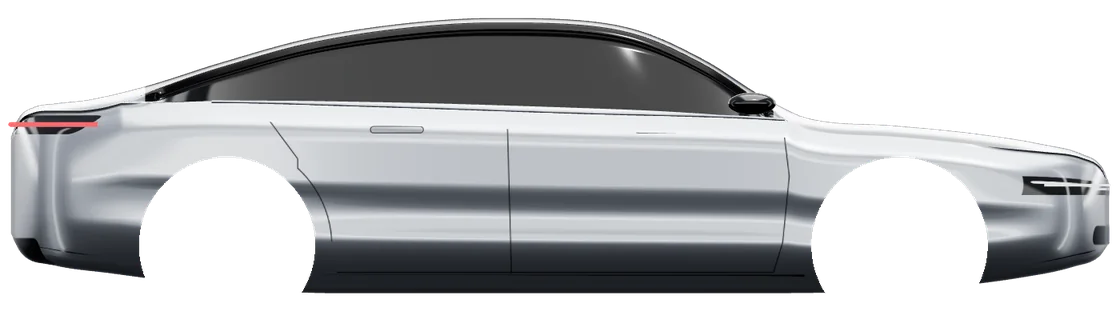
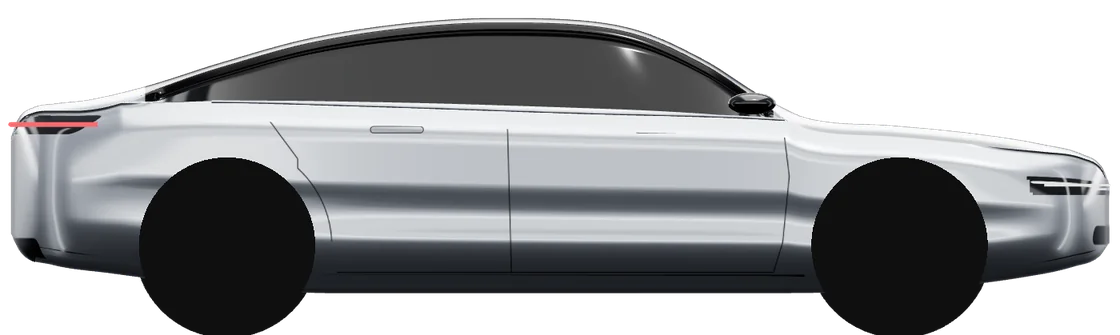
Car pictures: clean hood, closed wheel wells, matching wheel tone [no release]
Claude-Session: https://claude.ai/code/session_01CHoTaiYXgqNQoAxruhGoBM

diff --git a/tools/car3d/premium.js b/tools/car3d/premium.js
@@ -134,7 +134,7 @@ function bodyGeometry() {
 }
 
 /** Sub-mesh of the body (rows k0..k1 of each half, stations in [x0, x1]) pushed out along the normals, with chosen uv. */
-function patch(g, k0, k1, x0, x1, d, uvName) {
+function patch(g, k0, k1, x0, x1, d, uvName, nx = 0) {
   const { NX, RING } = g.userData;
   const P = g.attributes.position, N = g.attributes.normal, U = g.attributes[uvName];
   const pos = [], uv = [], idx = [];
@@ -155,6 +155,7 @@ function patch(g, k0, k1, x0, x1, d, uvName) {
   }
   for (let i = 0; i < NX; i++) for (let k = 0; k < RING - 1; k++) {
     const a = i * RING + k, b = a + 1, c = a + RING, dd = c + 1;
+    if (nx && ![a, b, c, dd].every(v => N.getX(v) * Math.sign(nx) > Math.abs(nx))) continue; // only faces looking forward / back
     if ([a, b, c, dd].every(v => map.has(v))) idx.push(map.get(a), map.get(c), map.get(b), map.get(b), map.get(c), map.get(dd));
   }
   const o = new THREE.BufferGeometry();
@@ -348,7 +349,7 @@ function carGroup(paint, opts) {
   const body = bodyGeometry();
   const paintMat = new THREE.MeshPhysicalMaterial({
     color: new THREE.Color(paint.color), metalness: paint.metal, roughness: paint.rough, clearcoat: 1.0, clearcoatRoughness: 0.03,
-    alphaMap: mk('paint', paintMask), alphaTest: 0.5, envMapIntensity: paint.env ?? 1.0, side: THREE.DoubleSide,
+    alphaMap: mk('paint', paintMask), alphaTest: 0.5, envMapIntensity: paint.env ?? 1.0, side: THREE.FrontSide,
   });
   const glassMat = new THREE.MeshPhysicalMaterial({ color: 0x040507, roughness: 0.05, metalness: 0.0, clearcoat: 1, clearcoatRoughness: 0.02, envMapIntensity: 0.25 });
   grp.add(new THREE.Mesh(body, [paintMat, glassMat]));
@@ -358,8 +359,8 @@ function carGroup(paint, opts) {
   layer(sideRows(0.0020), new THREE.MeshPhysicalMaterial({ color: 0x0b0c0e, roughness: 0.25, metalness: 0.2, clearcoat: 1 }), mk('skirt', skirtMask), 2);
   layer(sideRows(0.0026), new THREE.MeshPhysicalMaterial({ color: 0xd8dde3, roughness: 0.18, metalness: 1 }), mk('handle', handleMask), 3);
   // front and rear faces (projection from the front)
-  const nose = (d) => patch(body, 0, NF + NS, L - 0.42, L, d, 'uv1');
-  const tail = (d) => patch(body, 0, NF + NS, 0, 0.40, d, 'uv1');
+  const nose = (d) => patch(body, 0, NF + NS, L - 0.42, L, d, 'uv1', 0.30);
+  const tail = (d) => patch(body, 0, NF + NS, 0, 0.40, d, 'uv1', -0.30);
   layer(nose(0.002), new THREE.MeshPhysicalMaterial({ color: 0x06070a, roughness: 0.06, metalness: 0.4, clearcoat: 1 }), mk('fp', frontPanel), 4);
   layer(nose(0.0032), new THREE.MeshBasicMaterial({ color: new THREE.Color(opts.drl ?? 0.95, opts.drl ?? 0.97, opts.drl ?? 1.0) }), mk('fl', frontLeds), 5);
   layer(tail(0.002), new THREE.MeshPhysicalMaterial({ color: 0x0a0607, roughness: 0.06, metalness: 0.4, clearcoat: 1 }), mk('rp', rearPanel), 4);
@@ -372,6 +373,9 @@ function carGroup(paint, opts) {
     const well = new THREE.Mesh(new THREE.CylinderGeometry(ARCH_R + 0.012, ARCH_R + 0.012, 1.92, 64, 1, true, 0, Math.PI * 2),
       new THREE.MeshStandardMaterial({ color: 0x040405, roughness: 0.95, side: THREE.BackSide }));
     well.rotation.x = Math.PI / 2; well.position.set(cx, ARCH_Y, 0); grp.add(well);
+    // dark wall in the middle of the well so the arch is never see-through
+    const wall = new THREE.Mesh(new THREE.CircleGeometry(ARCH_R + 0.02, 64), new THREE.MeshStandardMaterial({ color: 0x030304, roughness: 1, side: THREE.DoubleSide }));
+    wall.position.set(cx, ARCH_Y, 0); grp.add(wall);
   }
   // mirrors
   for (const s of [1, -1]) {
@@ -438,7 +442,8 @@ window.renderWheel = (size = 512) => {
 window.renderParked = (paint, opts = {}) => {
   const s = scene();
   const car = carGroup(paint, { ...opts, wheels: true });
-  if (opts.mirror) { car.scale.y = -1; } else s.add(shadowPlane());
+  if (opts.mirror) car.scale.y = -1;   // three.js flips the face winding itself for mirrored objects
+  else s.add(shadowPlane());
   s.add(car);
   const w = opts.width || 1400, h = opts.height || 640;
   const cam = new THREE.PerspectiveCamera(opts.fov || 21, w / h, 0.1, 100);

diff --git a/app/src/main/java/app/drivelauncher/PremiumCards.kt b/app/src/main/java/app/drivelauncher/PremiumCards.kt
@@ -359,8 +359,8 @@ object CarArt {
         shadow(c, cx, ground, fw * s * 0.47f, 0.10f * s, if (C.night) 0.85f else 0.45f)
         for (x in WHEELS) shadow(c, px(x), ground, 0.44f * s, 0.05f * s, if (C.night) 0.9f else 0.55f)
         // lamps glow around the body edges
-        glow(c, hx, hy, 0.26f * s, bc, if (C.night) 0.40f else 0.22f)
-        glow(c, px(TAIL[0]), py(TAIL[1]), 0.30f * s, 0xFFFF2B3A.toInt(), if (C.night) 0.45f else 0.22f)
+        glow(c, hx, hy, 0.18f * s, bc, if (C.night) 0.38f else 0.20f)
+        glow(c, px(TAIL[0]) + 0.04f * s, py(TAIL[1]), 0.20f * s, 0xFFFF2B3A.toInt(), if (C.night) 0.38f else 0.18f)
         rf.set(left, top, left + fw * s, top + fh * s)
         c.drawBitmap(b, null, rf, bp)
         val r = WHEEL_HALF * s

diff --git a/tools/car3d/assets.py b/tools/car3d/assets.py
@@ -1,0 +1,17 @@
+"""Turn the renders into the app's pictures: python3 assets.py out parked ../../app/src/main/assets/car"""
+import sys, os
+from PIL import Image, ImageEnhance
+
+SRC, PARKED, DST = sys.argv[1], sys.argv[2], sys.argv[3]
+COLOURS = ["white", "silver", "grey", "black", "blue", "red", "bronze", "green"]
+for c in COLOURS:
+    im = Image.open(f"{SRC}/side_{c}.png")
+    im.resize((1120, round(im.height * 1120 / im.width)), Image.LANCZOS).save(f"{DST}/side_{c}.webp", quality=84, method=6)
+    pk = Image.open(f"{PARKED}/parked_{c}.png")
+    pk.resize((1000, round(pk.height * 1000 / pk.width)), Image.LANCZOS).save(f"{DST}/parked_{c}.webp", quality=84, method=6)
+# the side light makes the rim look paler than in the parked view: tone it down to match
+w = Image.open(f"{SRC}/wheel.png").convert("RGBA").resize((320, 320), Image.LANCZOS)
+r, g, b, a = w.split()
+rgb = ImageEnhance.Brightness(Image.merge("RGB", (r, g, b))).enhance(0.72)
+Image.merge("RGBA", (*rgb.split(), a)).save(f"{DST}/wheel.webp", quality=88, method=6)
+print("done", sum(os.path.getsize(f"{DST}/{f}") for f in os.listdir(DST)), "bytes")

diff --git a/tools/car3d/README.md b/tools/car3d/README.md
@@ -6,6 +6,7 @@ front and back, black glass roof, turbine wheels) and renders it with a transpar
     npm install three@0.170.0
     python3 render.py out              # side_*, park_*, refl_*, wheel (Playwright + headless Chrome)
     python3 compose.py out parked      # parked_* = three-quarter view + soft floor reflection
+    python3 assets.py out parked ../../app/src/main/assets/car   # resize, WebP, tone the wheel
 
 App pictures in `app/src/main/assets/car/` (WebP, quality ~84):
 - `side_<colour>.webp` — driving look, side view without wheels, 1120 px wide;
